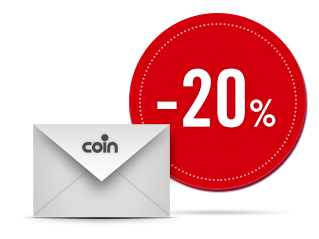
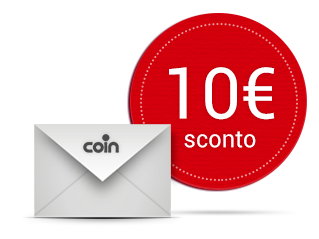
[closes #547] Replaced some images

diff --git a/site/coin/assets/stylesheets/coin_style.scss b/site/coin/assets/stylesheets/coin_style.scss
@@ -16,7 +16,7 @@ body {
   background-position: top center;
   background-repeat: no-repeat;
   background-attachment: fixed;
-  background-color: #9c806a;
+  background-color: #857e6b;
   font-family: 'Source Sans Pro', helvetica, arial, sans-serif;
 }
 
@@ -963,10 +963,10 @@ fieldset[disabled] .btn-facebook.active {
   body {
     padding-top: 60px;
     background-image: none;
-    background: -webkit-linear-gradient(#bdaa9c, #9c806a) fixed;
-    background: -o-linear-gradient(#bdaa9c, #9c806a) fixed;
-    background: -moz-linear-gradient(#bdaa9c, #9c806a) fixed;
-    background: linear-gradient(#bdaa9c, #9c806a) fixed;
+    background: -webkit-linear-gradient(#bbb7ac, #857e6b) fixed;
+    background: -o-linear-gradient(#bbb7ac, #857e6b) fixed;
+    background: -moz-linear-gradient(#bbb7ac, #857e6b) fixed;
+    background: linear-gradient(#bbb7ac, #857e6b) fixed;
   }
 
   .body-landing {
